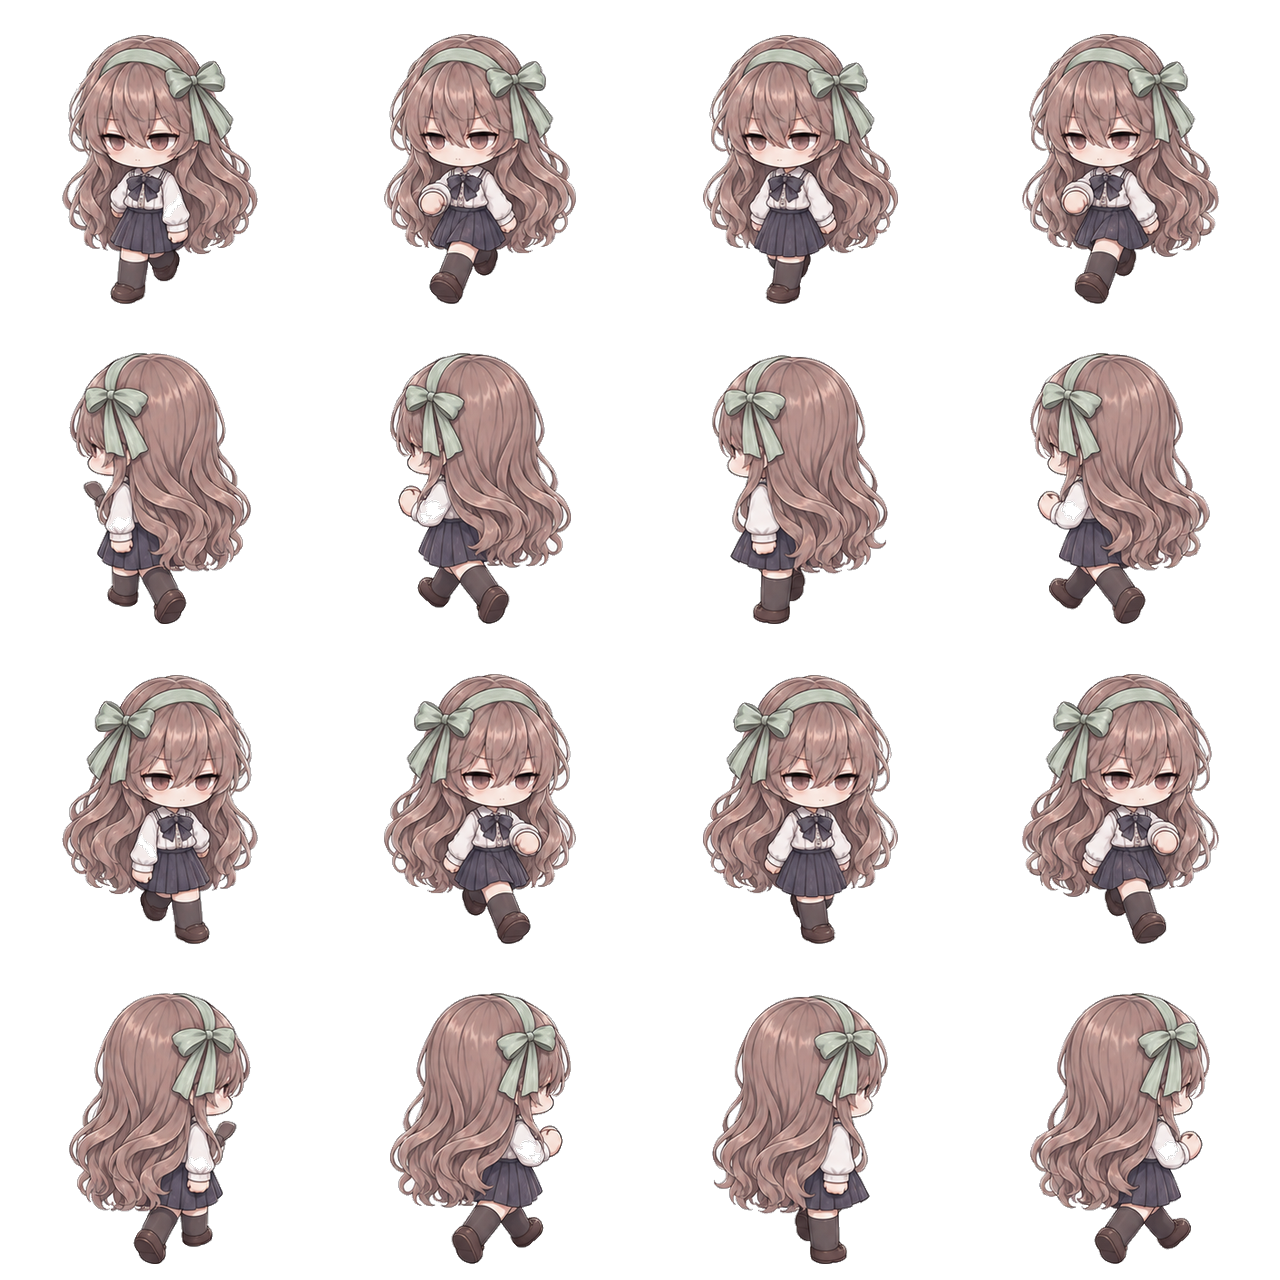
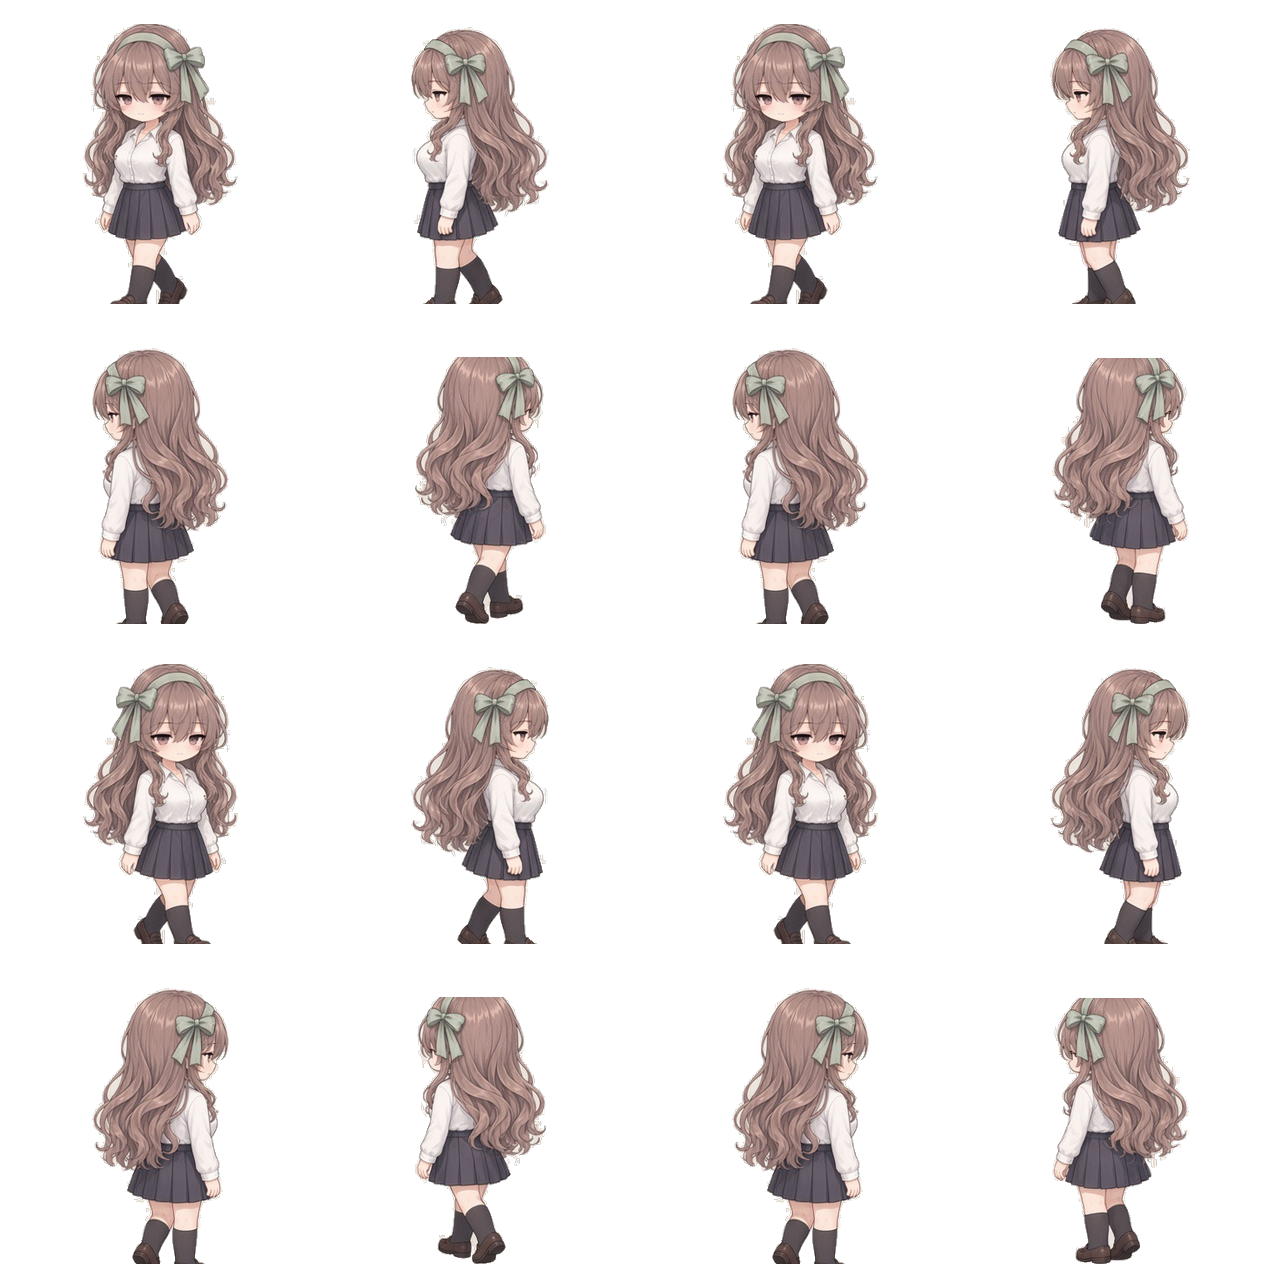
希露飛：CG02 與走路圖換成使用者提供的版本（走路圖重新排方向）

diff --git a/docs/art_generated.md b/docs/art_generated.md
@@ -280,3 +280,8 @@ un_bu_passing.png`），
 | 第五章 19 間 | `chatgpt_art\rooms\paint_ch5_<房間>.png` | 玩偶世界的醫院（實驗室、走廊、檔案室、監視室、教官室、理事室、晚上的走廊）用第三章畫好的房間當風格參考；真實世界的醫院（病房、走廊、白線的另一邊、大廳、三床病房、很長的走廊、芬的病房）用人類時期 CG〈醒來〉當風格參考；校門口用 CG〈郵筒〉；棉花糖鎮（廣場、鎮長公館、修理室）用第一章的背景當參考，畫成褪色的樣子。ChatGPT 對話「Repaint Game Map」 |
 - 第五章已知小問題：床的碰撞範圍是床頭那一段，ChatGPT 畫的床往下延伸，可以走到床尾上面一點；校門的柱子、郵筒碰撞稍微偏右。
 - 2026-11-06 畫到修理室時 ChatGPT 出現「Unusual activity has been detected」，停了幾分鐘後恢復，月台補畫完成（第一章月台背景當參考，夜晚）。
+
+## 希露飛（人類時期）使用者提供的圖（2026-11-06）
+- CG02 鏡子碎片：換成使用者給的版本（原檔 `chatgpt_art\cg_h_cg02_mirror_user_v2.png`）→ `game/art/human/cg/h_cg02_mirror.jpg`（裁 16:9、2560×1440）。
+- 走路圖：使用者給的 4×4（原檔 `chatgpt_art\walk_h_hilufei_user_v2.jpg`）方向混在一起，重新排成遊戲的順序後轉檔：下＝正面那幾格、左＝側面兩格輪流、右＝左的翻轉、上＝背面三格；斜向用 3/4 正面、3/4 背面那幾格（`h_hilufei_diag.png`）。每格上緣 30px 塗成底色，避免上一格的鞋子跑進來。
+- 對話立繪沒有換（維持原本 6 張）。
